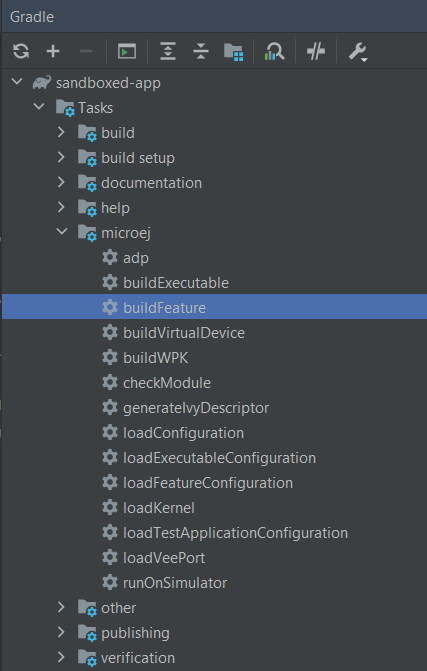
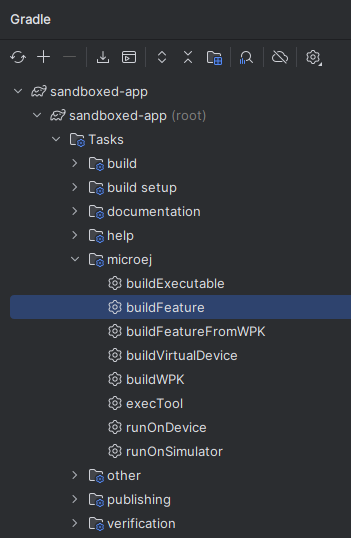
document how to build a Feature from a WPK

Changed region(s): [[0.0, 0.0, 1.0, 1.0], [0.114, 0.8922, 0.1425, 0.9517]]

diff --git a/SDK6UserGuide/buildFeature.rst b/SDK6UserGuide/buildFeature.rst
@@ -43,7 +43,7 @@ Once these prerequisites are fulfilled, the Feature file can be built:
 
           $ ./gradlew buildFeature
 
-The Feature file is generated in the ``build/feature/application`` folder of the project.
+The Feature file is generated in the ``build/application/feature`` folder of the project.
 
 .. _sdk_6_trigger_feature_build:
 
@@ -58,6 +58,73 @@ in the ``microej`` configuration block of the Gradle build file of the project::
    microej {
      produceFeatureDuringBuild()
    }
+
+.. _sdk_6_build_feature_from_wpk:
+
+Build a Feature file from a WPK
+-------------------------------
+
+The SDK provides the Gradle ``buildFeatureFromWPK`` task which allows to build a Feature file from the WPK of an Application.
+The prerequisites to use this task are:
+
+- The WPK must be defined:
+
+  - When the WPK is published in an artifact repository, you can use it by declaring a Module dependency::
+
+     dependencies {
+        microejApplication("com.mycompany:myapp:1.0.0")
+     }  
+
+  - When the WPK is built by a subproject of a multi-project, you can use it by declaring a Project dependency in the ``build.gradle.kts`` file, with the ``microejApplication`` configuration::
+
+     dependencies {
+        microejApplication(project(":myApplication"))
+     }  
+
+  - When the WPK is available locally, you can use it by declaring a File dependency in the ``build.gradle.kts`` file, with the ``microejApplication`` configuration::
+
+     dependencies {
+        microejApplication(files("C:\\path\\to\\my\\application.wpk"))
+     }     
+
+- A Multi-Sandbox Kernel must be defined.
+  Refer to the :ref:`sdk_6_select_kernel` page to learn how to provide a Kernel for a module project.
+
+Once these prerequisites are fulfilled, the Feature file can be built:
+
+.. tabs::
+
+   .. tab:: Android Studio / IntelliJ IDEA
+
+      By double-clicking on the ``buildFeatureFromWPK`` task in the Gradle tasks view:
+
+      .. image:: images/intellij-buildFeatureFromWPK-gradle-project.png
+         :width: 30%
+         :align: center
+
+      |
+
+      .. warning::
+         Android Studio does not allow to run multiple Gradle tasks in parallel.
+         If you still want to execute several Gradle tasks simultaneously, 
+         you can launch them from a terminal with the Gradle Command Line Interface (CLI).
+
+   .. tab:: Eclipse
+
+      By double-clicking on the ``buildFeatureFromWPK`` task in the Gradle tasks view:
+
+      .. image:: images/eclipse-buildFeatureFromWPK-gradle-project.png
+         :width: 50%
+         :align: center
+
+   .. tab:: Command Line Interface
+
+      From the command line interface::
+
+          $ ./gradlew buildFeatureFromWPK
+
+
+The Feature file is generated in the ``build/application/wpkFeature`` folder of the project.
 
 ..
    | Copyright 2008-2024, MicroEJ Corp. Content in this space is free 

diff --git a/SDK6UserGuide/moduleNatures.rst b/SDK6UserGuide/moduleNatures.rst
@@ -64,6 +64,7 @@ This plugin adds the following tasks to your project:
 - :ref:`sdk6_module_natures.tasks.execTool`
 - :ref:`sdk6_module_natures.tasks.generateApplicationWrapper`
 - :ref:`sdk6_module_natures.tasks.compileWrapperJava`
+- :ref:`sdk6_module_natures.tasks.buildFeatureFromWPK`
 
 .. graphviz:: graphApplicationModule.dot
 
@@ -424,12 +425,12 @@ buildFeature
 - The Kernel Virtual Device 
 - The folder containing the Kernel Executable file (``build/kernelExecutable``)
 - The project classpath
-- The path of the folder where the Feature file must be generated (``build/feature/application``)
+- The path of the folder where the Feature file must be generated (``build/application/feature``)
 
 **Outputs**:
 
-- The generated Feature file (``build/feature/application/application.fo``)
-- The Zip file containing the generated build files (``build/libs/<application_name>-feature.zip``)
+- The generated Feature file (``build/application/feature/application.fo``)
+- The Zip file containing the generated build files (``build/libs/<application_name>-buildFiles.zip``)
 
 **Module Natures**:
 
@@ -617,6 +618,31 @@ This task is used by the following module natures:
 - :ref:`sdk6_module_natures.runtime-api`
 
 The ``buildRuntimeApiJar`` task is used internally by the SDK and it is not intended to be executed by the user.
+
+.. _sdk6_module_natures.tasks.buildFeatureFromWPK:
+
+buildFeatureFromWPK
+^^^^^^^^^^^^^^^^^^^
+
+**Description**: Builds the Feature binary file from a dependent Application.
+
+**Inputs**:
+
+- The Kernel Virtual Device 
+- The folder containing the Kernel Executable file (``build/kernelExecutable``)
+- The WPK of the dependent Application
+- The path of the folder where the Feature file must be generated (``build/application/wpkFeature``)
+
+**Outputs**:
+
+- The generated Feature file (``build/application/wpkFeature/application.fo``)
+- The Zip file containing the generated build files (``build/libs/wpkFeature-buildFiles.zip``)
+
+**Module Natures**:
+
+This task is used by the following module natures:
+
+- :ref:`sdk6_module_natures.application`
 
 .. _gradle_global_build_options:
 
